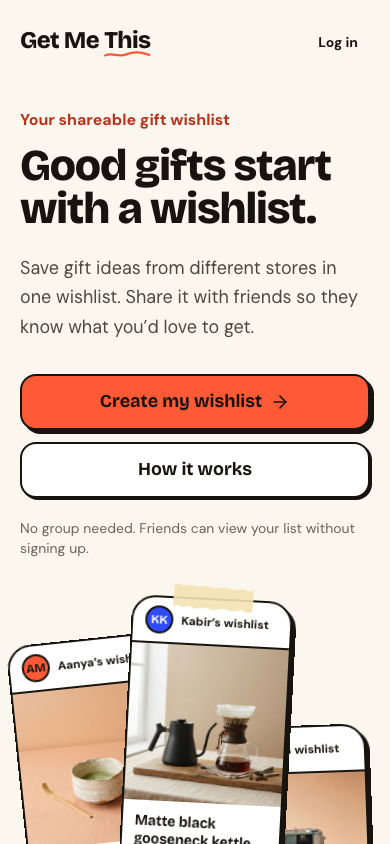
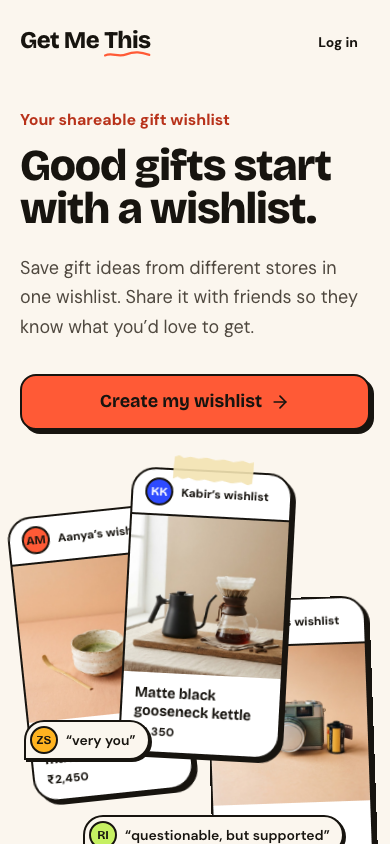
Simplify hero to one wishlist action

Changed region(s): [[0.0, 0.5237, 0.9846, 1.0], [0.0308, 0.5237, 0.0923, 0.5853], [0.9231, 0.5237, 0.9538, 0.5853]]

diff --git a/tests/e2e/landing.spec.ts b/tests/e2e/landing.spec.ts
@@ -170,11 +170,10 @@ test("every interactive control is keyboard reachable with a visible focus ring"
 
   const focused = focusedLabels.join("\n");
   // Controls visible at every viewport: wordmark (home), Log in, and the
-  // primary and example hero CTAs must be keyboard reachable with the focus ring.
+  // primary hero CTA must be keyboard reachable with the focus ring.
   expect(focused).toMatch(/Get Me\s*This\|solid/);
   expect(focused).toContain("Log in|solid");
   expect(focused).toContain("Create my wishlist|solid");
-  expect(focused).toContain("How it works|solid");
   // The anchor nav is hidden below md in the approved design; desktop only.
   if (isDesktop) {
     expect(focused).toContain("How it works|solid");
@@ -230,19 +229,10 @@ test("every interactive control is keyboard reachable with a visible focus ring"
   }
 });
 
-test("the hero explanation action works with a keyboard at both sizes", async ({
+test("the standalone wishlist FAQ works with a keyboard at both sizes", async ({
   page,
 }) => {
   await page.goto("/");
-  const action = page.getByRole("link", { name: "How it works" }).last();
-  await action.focus();
-  await page.keyboard.press("Enter");
-  await expect(page).toHaveURL(/\/#how$/);
-  await expect(
-    page.getByRole("heading", {
-      name: "Your wishlist. One link. Happy friends.",
-    }),
-  ).toBeInViewport();
   const question = page
     .locator("summary")
     .filter({ hasText: "Do I need a group" });

diff --git a/src/landing/content.test.ts b/src/landing/content.test.ts
@@ -32,7 +32,6 @@ describe("landing content", () => {
     expect(hero.eyebrow).toBe("Your shareable gift wishlist");
     expect(hero.title).toBe("Good gifts start with a wishlist.");
     expect(hero.primaryCta).toBe("Create my wishlist");
-    expect(hero.secondaryCta).toBe("How it works");
     expect(startWishlistHref).toBe("/auth?intent=wishlist");
     expect(createGroupHref).toBe("/auth?intent=create-group");
     expect(loginHref).toBe("/auth?intent=home");
@@ -54,7 +53,6 @@ describe("landing content", () => {
       /group/i,
     );
     expect(finalCta.cta).toBe("Create my wishlist");
-    expect(hero.privacyNote).toContain("No group needed");
   });
 
   it("never uses the prototype's internal product nouns", () => {

diff --git a/src/landing/landing-page.tsx b/src/landing/landing-page.tsx
@@ -93,13 +93,7 @@ export function LandingPage({
                 {hero.primaryCta}
                 <ArrowRightIcon className="h-5 w-5" />
               </CtaLink>
-              <CtaLink href="#how" variant="subtle" size="lg">
-                {hero.secondaryCta}
-              </CtaLink>
             </div>
-            <p className="mt-5 text-sm text-content-muted">
-              {hero.privacyNote}
-            </p>
           </div>
           <HeroCollage />
         </section>

diff --git a/src/landing/content.ts b/src/landing/content.ts
@@ -13,9 +13,6 @@ export const hero = {
   title: "Good gifts start with a wishlist.",
   body: "Save gift ideas from different stores in one wishlist. Share it with friends so they know what you’d love to get.",
   primaryCta: "Create my wishlist",
-  secondaryCta: "How it works",
-  privacyNote:
-    "No group needed. Friends can view your list without signing up.",
 } as const;
 export const howItWorks = {
   title: "Your wishlist. One link. Happy friends.",

diff --git a/docs/delivery/evidence/landing-positioning-2026-10-04/README.md b/docs/delivery/evidence/landing-positioning-2026-10-04/README.md
@@ -9,9 +9,9 @@ The user approved the marketing review after new visitors could not understand h
 - [x] Remove the How it works eyebrow, optional-next-step eyebrow, and group-mode footnote. Give the final Create my wishlist CTA a light face with a visible dark bottom/right shadow and hover lift.
 
 - [x] Lead with a shareable individual wishlist. Primary action: **Create my wishlist**, preserving `/auth?intent=wishlist`.
-- [x] Explicitly say no group is needed and friends can view without signing up. How it works explains add → share → buy at the original store before introducing groups.
+- [x] Explain standalone sharing in How it works and FAQ. The hero’s no-group/account supporting line is removed at the user’s request. How it works explains add → share → buy at the original store before introducing groups.
 - [x] Preserve the selected headline, supporting copy and new page structure while restoring the original hero collage: three overlapping product cards, tape, avatars, reaction bubbles and entrance motion. The restored illustration is decorative, not interactive.
-- [x] Make the secondary hero action useful: **How it works** scrolls to `#how` at desktop and mobile sizes. The removed interactive example is not moved elsewhere; its unused component and unit tests are deleted.
+- [x] Keep one hero action: **Create my wishlist**. Remove its **How it works** secondary button; retain the desktop navigation link and explanation section. The removed interactive example is not moved elsewhere; its unused component and unit tests are deleted.
 - [x] Keep public-sharing claims truthful. The original hero's “Reserved secretly” sticker is omitted because public wishlist links never expose reservations. This is the only change inside the restored hero illustration; its composition and remaining content stay intact.
 - [x] Introduce groups as optional and use existing individual wishlists. Restore the original Santa Party member/product illustration, including its private reservation badges, budget states and explicit explanation that Kabir cannot see reservations on his own list. The three current benefits use the original numbered tomato markers (1, 2, 3), as requested. The old universal “No double gifts” headline is not restored.
 - [x] Restore the original **Any excuse to gift.** events section with its colorful occasion tiles between groups and FAQ. Remove the condensed “Birthdays · Diwali · Eid · Secret Santa · Just because” line beneath groups. Keep the original colors and content. The latest user-approved refinement puts occasion cards on the left and text on the right at desktop widths, with a single full-width separator between occasions and FAQ, no top border on occasions and no bottom border on FAQ. Mobile keeps the introductory text above the cards.
@@ -43,6 +43,8 @@ Intermediate interactive-demo screenshots have been removed from the final evide
 These are review evidence, **not approved replacement golden screenshots**. No baseline files or manifest were changed. The landing still differs from the old group-first goldens, so a separate explicit baseline approval is required after human review.
 
 ## Final integrated verification
+
+Latest hero cleanup: removed the secondary hero CTA and supporting no-group/account line. Full `pnpm verify` passed again (154 files /1,512 tests plus build). Desktop/mobile rendered checks confirmed one hero CTA and preserved explanation sections; affected keyboard/navigation checks passed (5 passed, 1 intentional mobile navigation skip). Hero and full-page screenshots reflect this final state.
 
 After the final copy removals and CTA refinement, `pnpm verify` passed again: formatting, lint, types, all **154 files /1,512 tests**, and production build. Rendered checks at 1440×1000 and 390×844 confirmed all three removed lines are absent, the CTA retains `/auth?intent=wishlist`, its dark shadow extends 2px right/down, and hover lifts it 2px. Current full-page captures include these latest changes. Earlier verification history follows for context.
 

diff --git a/DESIGN.md b/DESIGN.md
@@ -23,8 +23,7 @@ Primary landing language:
 - Category: **Your shareable gift wishlist**
 - Hero: **Good gifts start with a wishlist.**
 - Primary action: **Create my wishlist** (preserves wishlist authentication intent)
-- Secondary action: **How it works** (scrolls to the standalone wishlist explanation)
-- Supporting line: **No group needed. Friends can view your list without signing up.**
+- The hero has one action, **Create my wishlist**. Its secondary How it works button and supporting no-group/account line were removed at the user's request. The desktop navigation still links to How it works, and the sections below explain standalone sharing.
 - Optional next step: **Gifting together? Start a group.**
 
 Teach adding, sharing and shopping from the original store before introducing groups. A group brings existing individual wishlists together; it is not a prerequisite or a new shared wishlist. The hero uses the original V18 overlapping product-card collage, tape, reaction bubbles and reduced-motion-aware entrance. The user explicitly restored this illustration after reviewing interactive alternatives. Its “Reserved secretly” sticker is omitted so the public-sharing hero does not imply public reservation visibility. The groups section retains the original Santa Party member/product illustration, including its private reservation badges and recipient-visibility explanation. Groups remain an optional next step in the surrounding new copy. The **Any excuse to gift.** section and original colorful occasion tiles appear after groups and before the FAQ; the condensed occasion text row is removed. The latest approved layout puts occasion cards on the left and text on the right on desktop, with text first on mobile. Occasions has no top border and FAQ has no bottom border; retain the single full-width separator between them. Never imply in-app checkout, pooled payments, guaranteed extraction or duplicate prevention.
